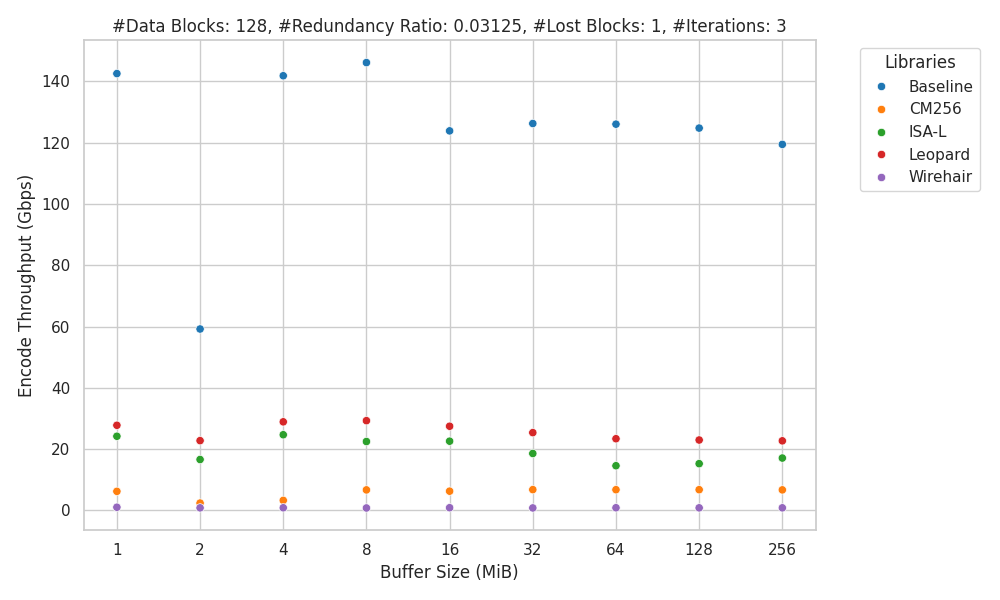
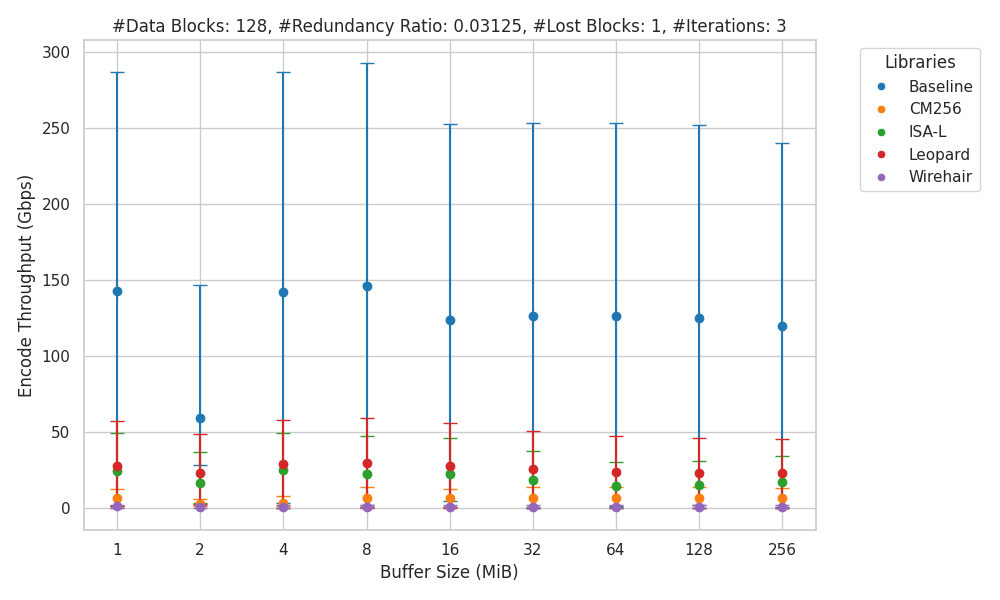
Full, final version of plot implementation

diff --git a/scripts/plot_benchmark_results.py b/scripts/plot_benchmark_results.py
@@ -75,8 +75,7 @@ if __name__ == "__main__":
 
   # Compute confidence intervals
   # CI = mean +/- z * (stddev / sqrt(n))
-  z = 1.96 # 95% confidence interval
-
+  z = 1.10 # 95% confidence interval
 
   for col in ["encode_time_ns", "decode_time_ns", "encode_throughput_Gbps", "decode_throughput_Gbps"]:
     df[f"{col}_lower"] = df[col] - z * (df[f"{col}_stddev"] / np.sqrt(df["num_iterations"]))
@@ -87,7 +86,6 @@ if __name__ == "__main__":
     df.rename(columns={f"{col}_ns_lower": f"{col}_ms_lower", f"{col}_ns_upper": f"{col}_ms_upper"}, inplace=True)
     df[f"{col}_ms_lower"] = df[f"{col}_ms_lower"] / 1e6
     df[f"{col}_ms_upper"] = df[f"{col}_ms_upper"] / 1e6
-
 
   dfs = {plot_id: group for plot_id, group in df.groupby("plot_id")}
 
